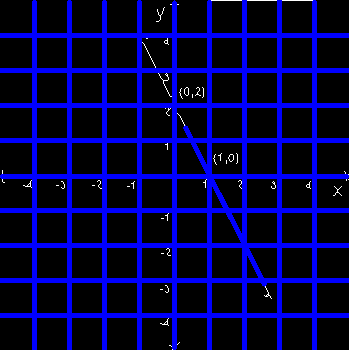
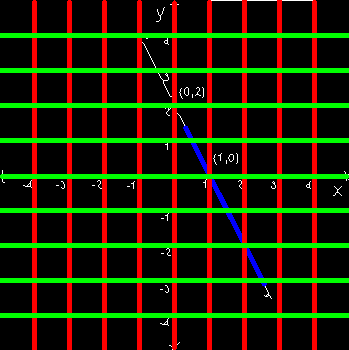
Look for horizontal and vertical lines

Changed region(s): [[0.0, 0.0, 1.0, 1.0]]

diff --git a/line_operations.py b/line_operations.py
@@ -1,0 +1,190 @@
+import cv2
+import numpy as np
+import math
+
+def angle(x1, y1, x2, y2):
+    inner_product = x1*x2 + y1*y2
+    len1 = math.hypot(x1, y1)
+    len2 = math.hypot(x2, y2)
+    return math.acos(inner_product/(len1*len2))
+
+# get image and a set of points that represents the lines
+# draws lines over image
+def draw_lines(image, lines, color=[255, 0, 0], thickness=3):
+	dicio = classify_lines(lines)
+
+	if lines is None:
+		return image
+
+	for line in lines:
+		colur = color
+		if dicio[hashify(line)] == "vert":
+			colur=[0,0,255]
+		if dicio[hashify(line)] == "hori":
+			colur=[0,255,0]
+		for x1, y1, x2, y2 in line:
+			cv2.line(image, (x1, y1), (x2, y2), colur, thickness)
+    
+	return image
+
+# gets set of lines and returns reduced set
+# for each line looks for lines that are close
+# and merge them
+def group_lines(lines):
+	close_lines = lines
+	while(True):
+		if close_lines==None or close_lines.shape[0]==1:
+			break
+		for line in lines:
+			close_lines = find_close_lines(line, lines)
+			if close_lines == None:
+				continue
+			lines = merge_close_lines(close_lines, lines)
+			if not close_lines==None and not close_lines.shape[0]==1:
+				break
+
+	return lines
+
+# receives set of close_lines (lines to be merged)
+# and full set of lines
+# returns full set now with close_lines merged
+def merge_close_lines(close_lines, lines):
+	lines_orientation = classify_lines(close_lines)
+	for line in close_lines:
+		orientation = lines_orientation[hashify(line)]
+		break
+
+	if orientation == "hori":
+		full_line = interpolate_hori(close_lines)
+	else:
+		full_line = interpolate_vert(close_lines)
+
+	for line in close_lines:
+		lines = remove_line_from_list(lines, line)
+
+	lines = add_line_to_list(lines, full_line)
+	return lines
+
+# gets set of horizontal lines
+# returns single interpolated line
+def interpolate_hori(lines):
+	most_left = []
+	most_right = []
+	low_x = 1000000
+	high_x = -10
+	for line in lines:
+		for x1, y1, x2, y2 in line:
+			if x1 < low_x:
+				low_x = x1
+				most_left = [x1,y1]
+			if x2 < low_x:
+				low_x = x2
+				most_left = [x2,y2]
+			if x1 > high_x:
+				high_x = x1
+				most_right = [x1,y1]
+			if x2 > high_x:
+				high_x = x2
+				most_right = [x2,y2]
+
+	return [[ most_left[0], most_left[1], most_right[0], most_right[1] ]]
+
+# gets set of vertical lines
+# returns single interpolated line
+def interpolate_vert(lines):
+	most_top = []
+	most_bottom = []
+	low_y = 1000000
+	high_y = -10
+	for line in lines:
+		for x1, y1, x2, y2 in line:
+			if y1 < low_y:
+				low_y = y1
+				most_bottom = [x1,y1]
+			if y2 < low_y:
+				low_y = y2
+				most_bottom = [x2,y2]
+			if y1 > high_y:
+				high_y = y1
+				most_top = [x1,y1]
+			if y2 > high_y:
+				high_y = y2
+				most_top = [x2,y2]
+
+	return [[ most_bottom[0], most_bottom[1], most_top[0], most_top[1] ]]
+
+# gets set of lines and a pivot line
+# looks for lines that are close in space to pivot line
+# returns set of lines that are close, including the pivot
+def find_close_lines(line, lines):
+	tolerance = 30
+
+	lines_class = classify_lines(lines)
+	if lines_class[hashify(line)]=="none":
+		return None
+
+	for line2 in lines:
+		if lines_class[hashify(line)] != lines_class[hashify(line2)]:
+			lines = remove_line_from_list(lines, line2)
+
+	for line2 in lines:
+		if lines_class[hashify(line)] == "hori":
+			if not check_close_horizontal(line, line2, tolerance):
+				lines = remove_line_from_list(lines, line2)
+		elif lines_class[hashify(line)] == "vert":
+			if not check_close_vertical(line, line2, tolerance):
+				lines = remove_line_from_list(lines, line2)
+
+	return lines
+
+def check_close_horizontal(line1, line2, thr):
+	for x1, y1, x2, y2 in line1:
+		for X1, Y1, X2, Y2 in line2:
+			if Y1 >= (y1-thr) and Y1 <= (y1+thr):
+				return True
+			if Y2 >= (y1-thr) and Y2 <= (y1+thr):
+				return True
+	return False
+
+def check_close_vertical(line1, line2, thr):
+	for x1, y1, x2, y2 in line1:
+		for X1, Y1, X2, Y2 in line2:
+			if X1 >= (x1-thr) and X1 <= (x1+thr):
+				return True
+			if X2 >= (x1-thr) and X2 <= (x1+thr):
+				return True
+	return False
+
+# returns a unique hash to represent a line
+def hashify(line):
+	return tuple(line.tolist()[0])
+
+# gets set of lines
+# returns dictionary with the orientation of each line
+def classify_lines(lines):
+	dicti = {}
+	for line in lines:
+		slope = get_slope(line)
+		if(slope!=None):
+			if get_slope(line)>7.5:
+				dicti[hashify(line)] = "vert"
+			elif get_slope(line)<0.15:
+				dicti[hashify(line)] = "hori"
+			else:
+				dicti[hashify(line)] = "none"
+		else:
+			dicti[hashify(line)] = "vert"
+	return dicti
+
+def remove_line_from_list(lista, line):
+	index = lista.tolist().index(line.tolist())
+	return np.delete(lista, index, axis=0)
+
+def add_line_to_list(lista, line):
+	return np.vstack([lista, [line] ] )
+
+def get_slope(line):
+	for x1, y1, x2, y2 in line:
+		if x1 == x2:
+			return None
+		return math.fabs(float(y2 - y1) / float(x2 - x1))

diff --git a/find_lines.py b/find_lines.py
@@ -1,34 +1,10 @@
 import cv2
 import numpy as np
 import math
-
-def angle(x1, y1, x2, y2):
-    inner_product = x1*x2 + y1*y2
-    len1 = math.hypot(x1, y1)
-    len2 = math.hypot(x2, y2)
-    return math.acos(inner_product/(len1*len2))
-
-def draw_lines(image, lines, color=[255, 0, 0], thickness=3):
-	if lines is None:
-		print "No lines found"
-		return image
-
-	for line in lines:
-		for x1, y1, x2, y2 in line:
-			print "sfsdf"
-			cv2.line(image, (x1, y1), (x2, y2), color, thickness)
-    
-	return image
-
-def get_most_perpendicular_lines(lines):
-	for line in lines:
-		for x1, y1, x2, y2 in line:
-			print "sfsdf"
-			cv2.line(image, (x1, y1), (x2, y2), color, thickness)
+from line_operations import *
 
 def find_lines(image, group, filename, extension):
-
-
+	
 	original = image
 	# retval, image = cv2.threshold(image, 2, 1, cv2.THRESH_BINARY)
 	image = cv2.cvtColor(image, cv2.COLOR_BGR2GRAY)
@@ -43,9 +19,11 @@ def find_lines(image, group, filename, extension):
 		maxLineGap=10
 	)
 
+	lines = group_lines(lines)
+
 	original = draw_lines(original, lines)
 
-	print(lines)
+	# print(lines)
 
 	cv2.imwrite("./pictures/results/{}{}_hough{}".format(group,filename,extension), original)
 

diff --git a/main.py b/main.py
@@ -47,4 +47,4 @@ def run_one_image(st):
 	find_lines(image, group, filename, extension)
 
 run_all()
-# run_one_image("group1/fun1.png")
+# run_one_image("group1/fun2.png")
